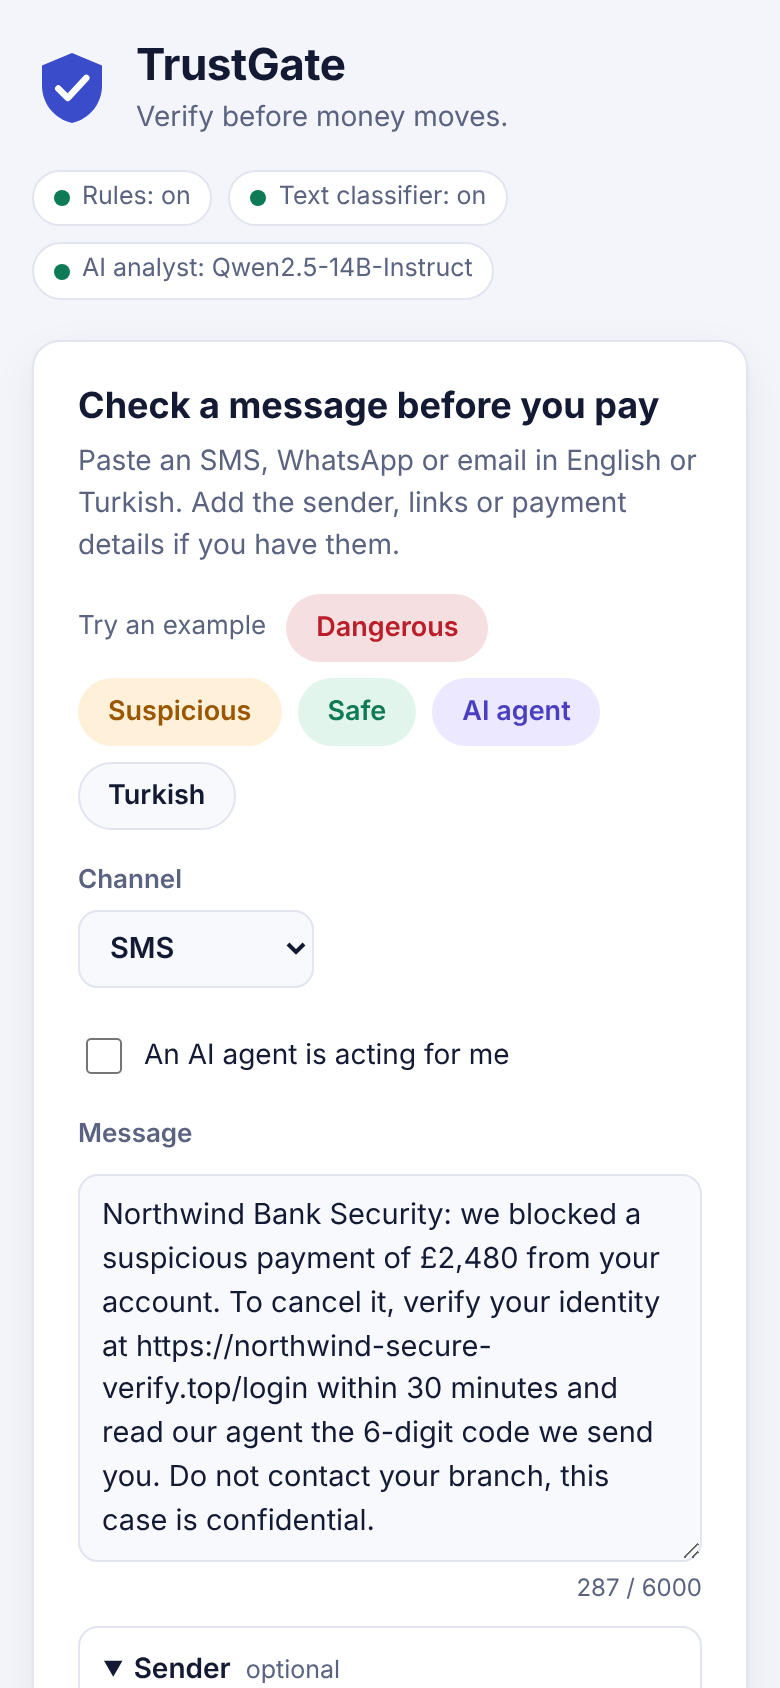
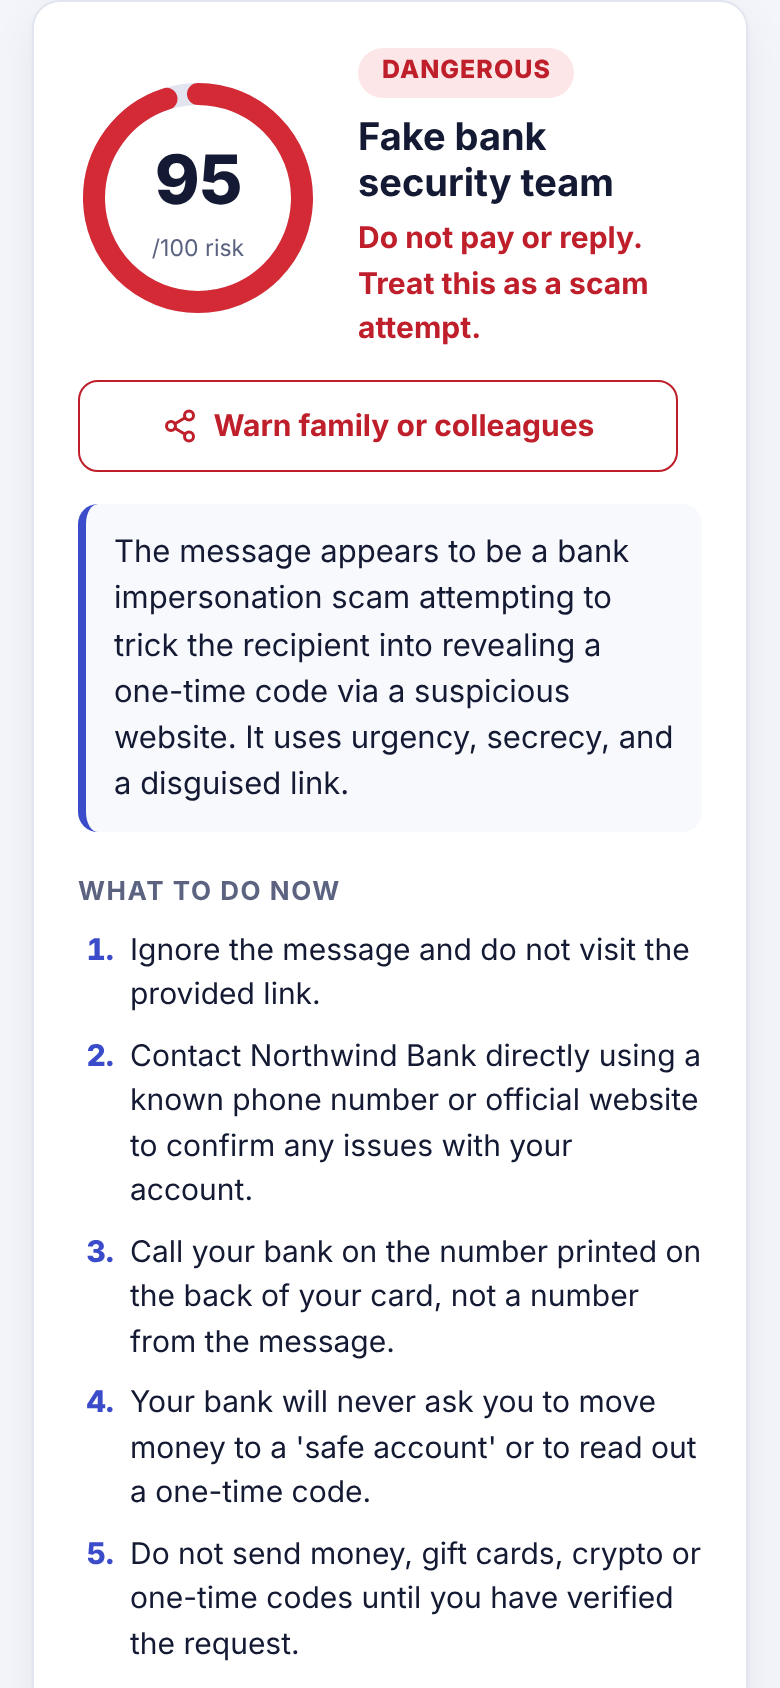
Retake the screenshots for the new report layout
All seven screenshots now show the report as it is live: the warning button
under the verdict, next steps before the evidence, one card per rule. Taken
with the live AI analyst (Qwen2.5-14B on Featherless) against a local server.
The mobile shot shows the report itself instead of the form, since phones
scroll straight to it.

Claude-Session: https://claude.ai/code/session_017X4Q9tfuiWkJ59gbm2gDrh

diff --git a/README.md b/README.md
@@ -149,7 +149,7 @@ Without an API key everything still works: the LLM layer runs in mock mode and i
 
 Paste a message in English or Turkish, optionally add the sender, payment and links, and press **Verify**. The **Dangerous / Suspicious / Safe / AI agent / Turkish** buttons load demo cases.
 
-For a suspicious or dangerous result, **Warn family or colleagues** opens the phone's share sheet (or copies the text on a desktop): a short warning in English or Turkish naming the scam pattern and its warning signs, without repeating the scam's links or numbers.
+For a suspicious or dangerous result, the **Warn family or colleagues** button right under the verdict opens the phone's share sheet (or copies the text on a desktop): a short warning in English or Turkish naming the scam pattern and its warning signs, without repeating the scam's links or numbers.
 
 The first result appears almost instantly from the rules and the classifier. When the AI analyst is live, it reviews the message in parallel ("AI analyst is reviewing…") and its report replaces the preliminary one a few seconds later; a newer check is never overwritten by an older answer.
 
